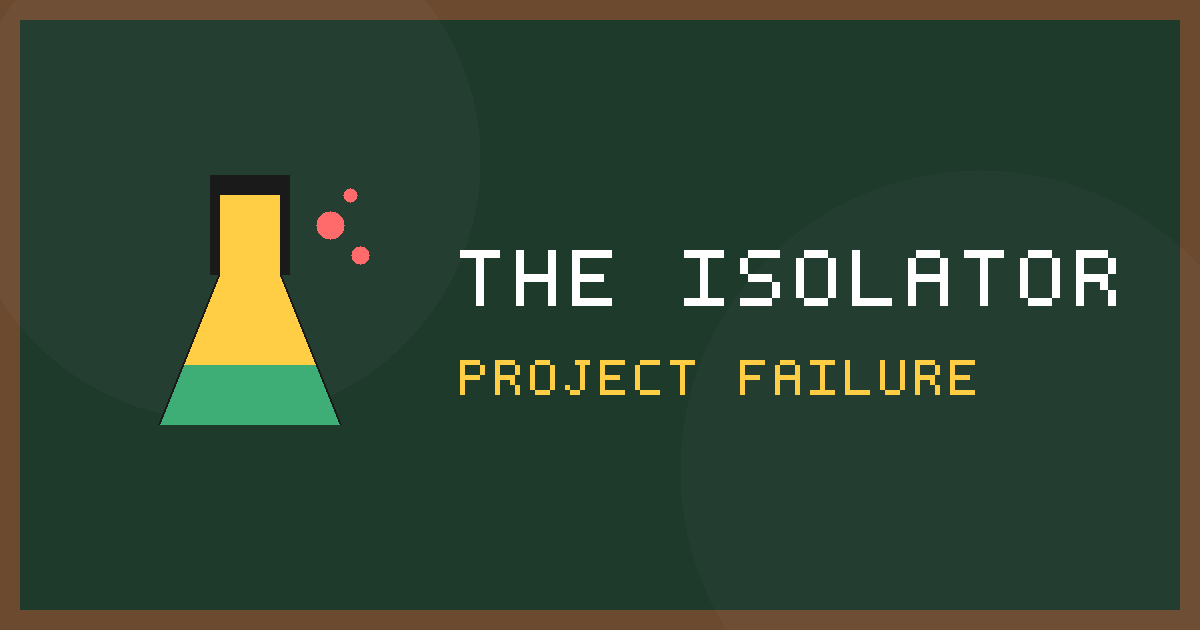
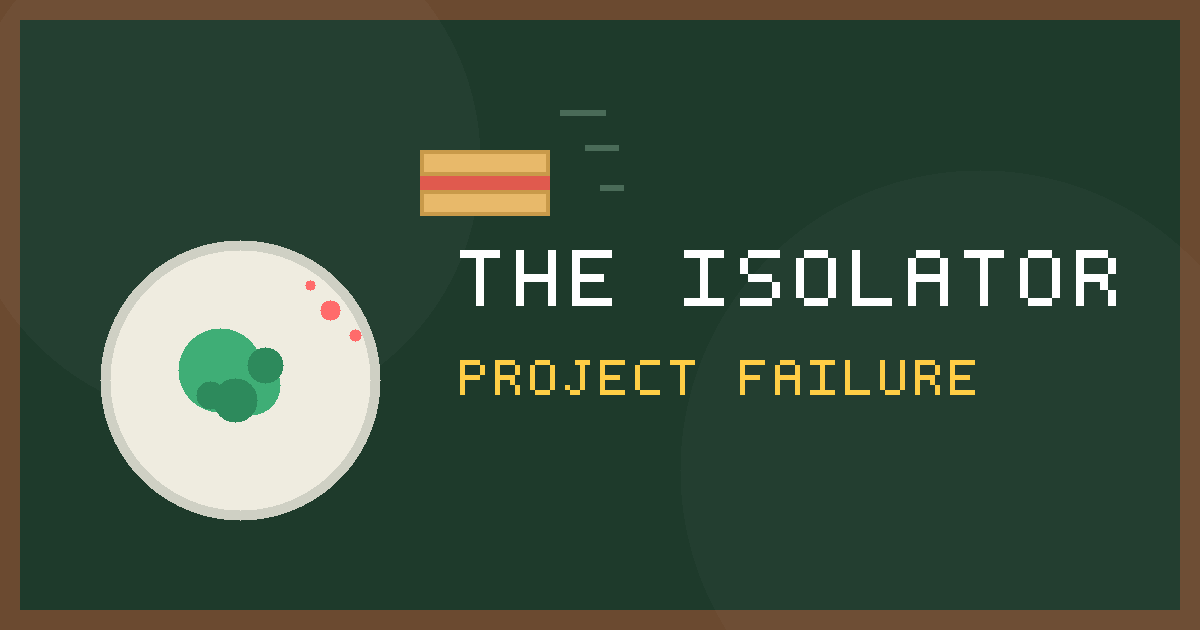
Content-relevant thumbnail, genre tag, better share buttons, transitions
- Thumbnail now depicts the actual plot (sandwich falling into a petri
  dish, mold blooming) instead of a generic flask+title card.
- Add scripts/generate-thumbnails.mjs: dependency-free Node script that
  auto-generates a generic on-brand fallback thumbnail for any sketch
  missing a custom ogImage, run automatically via predev/prebuild.
  Output isn't committed (regenerated every build).
- Replace the decorative "Exhibit" label with a real `genre` field on
  the sketch content schema, shown on both list and detail pages.
- Redesign ShareButtons with platform-tinted pill buttons instead of
  plain text links; reusable in the footer, enabled on home page.
- Enable Astro's built-in View Transitions (ClientRouter) site-wide so
  navigation crossfades instead of hard-cutting.

diff --git a/src/content.config.ts b/src/content.config.ts
@@ -8,6 +8,7 @@ const sketches = defineCollection({
 		pubDate: z.coerce.date(),
 		description: z.string(),
 		draft: z.boolean().default(false),
+		genre: z.string().default('Sketch'),
 		tags: z.array(z.string()).default([]),
 		ogImage: z.string().optional(),
 		youtubeId: z.string().optional(),

diff --git a/README.md b/README.md
@@ -58,14 +58,17 @@ above, with extra optional fields:
 title: "The Isolator"
 pubDate: 2026-07-07
 description: "One sentence summary"
+genre: "Science Comedy"    # shown as a small tag on the sketch, defaults to "Sketch" if omitted
 youtubeId: "dQw4w9WgXcQ"   # optional — YouTube video ID to embed
 pdfFile: "/downloads/the-isolator-script.pdf"   # optional — link to a downloadable script PDF
+ogImage: "/images/the-isolator-thumb.png"   # optional — thumbnail shown on the card and social shares
 ---
 
 Sketch description / synopsis goes here.
 ```
 
 PDFs go in `public/downloads/`; reference them with a path starting `/downloads/`.
+Thumbnails go in `public/images/`; same rule.
 
 ## Local development
 

diff --git a/src/content/sketches/the-isolator.md b/src/content/sketches/the-isolator.md
@@ -2,6 +2,7 @@
 title: "The Isolator"
 pubDate: 2026-07-07
 description: A 1928 lab, a hungry assistant, and the accidental discovery of penicillin.
+genre: Science Comedy
 tags: [history, biology]
 pdfFile: /downloads/the-isolator-script.pdf
 ogImage: /images/the-isolator-thumb.png